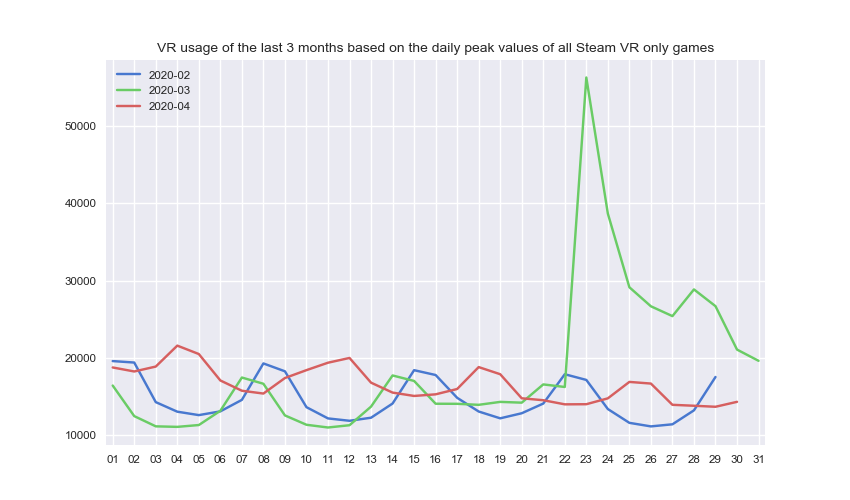
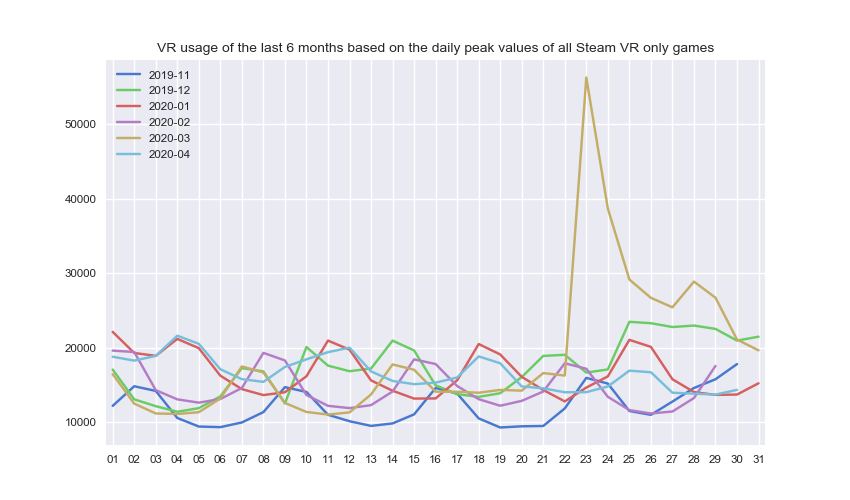
update

diff --git a/src/create_charts.py b/src/create_charts.py
@@ -82,9 +82,9 @@ def line_charts(starting_date):
 
     # Chart 2
     plt.subplots()
-    chart_title = "VR usage of the last 3 months based on the daily " \
+    chart_title = "VR usage of the last 6 months based on the daily " \
                   "peak values of all Steam VR only games"
-    months = ("2020-02", "2020-03", "2020-04")
+    months = ("2019-11", "2019-12", "2020-01", "2020-02", "2020-03", "2020-04")
     for month in months:
         sql_result = sql.max_peak_players_monthly(month)
         line_chart_plot(sql_result, chart_title, month)
